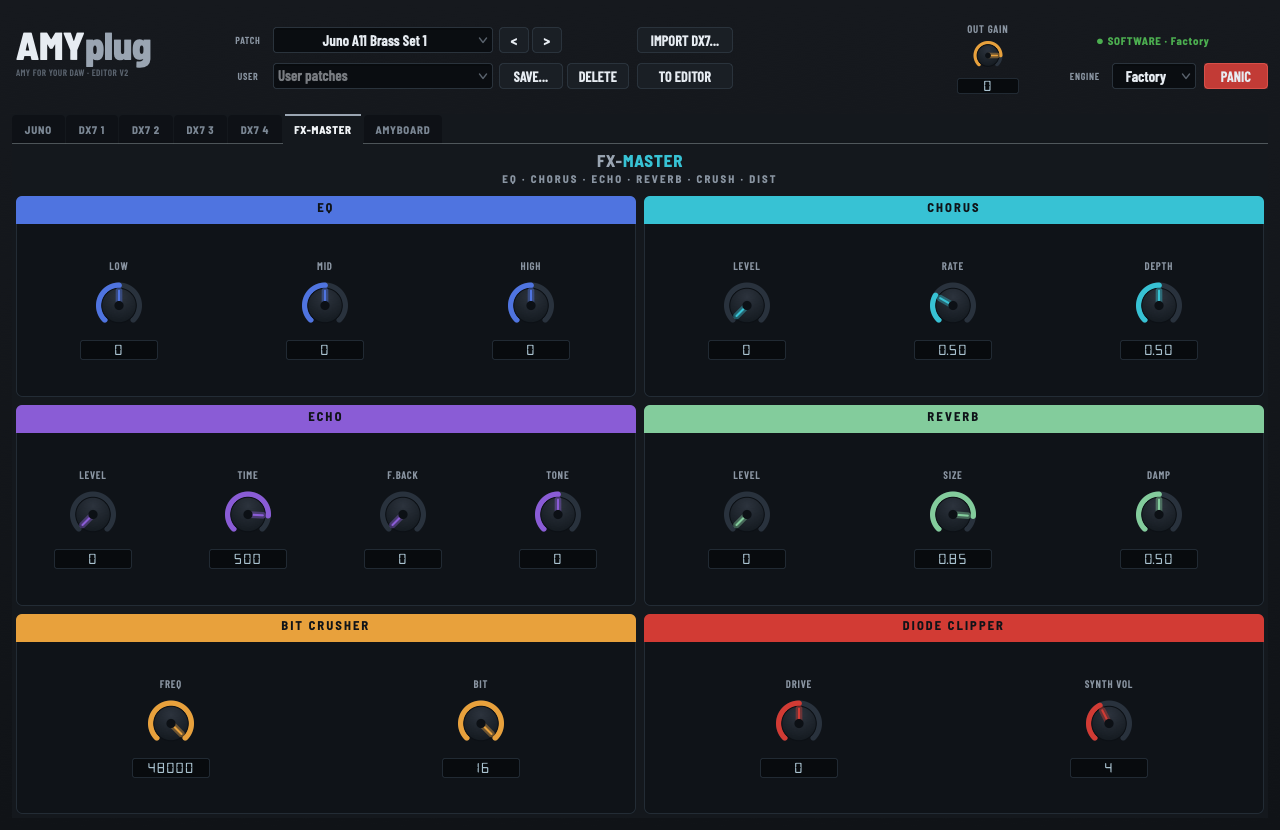
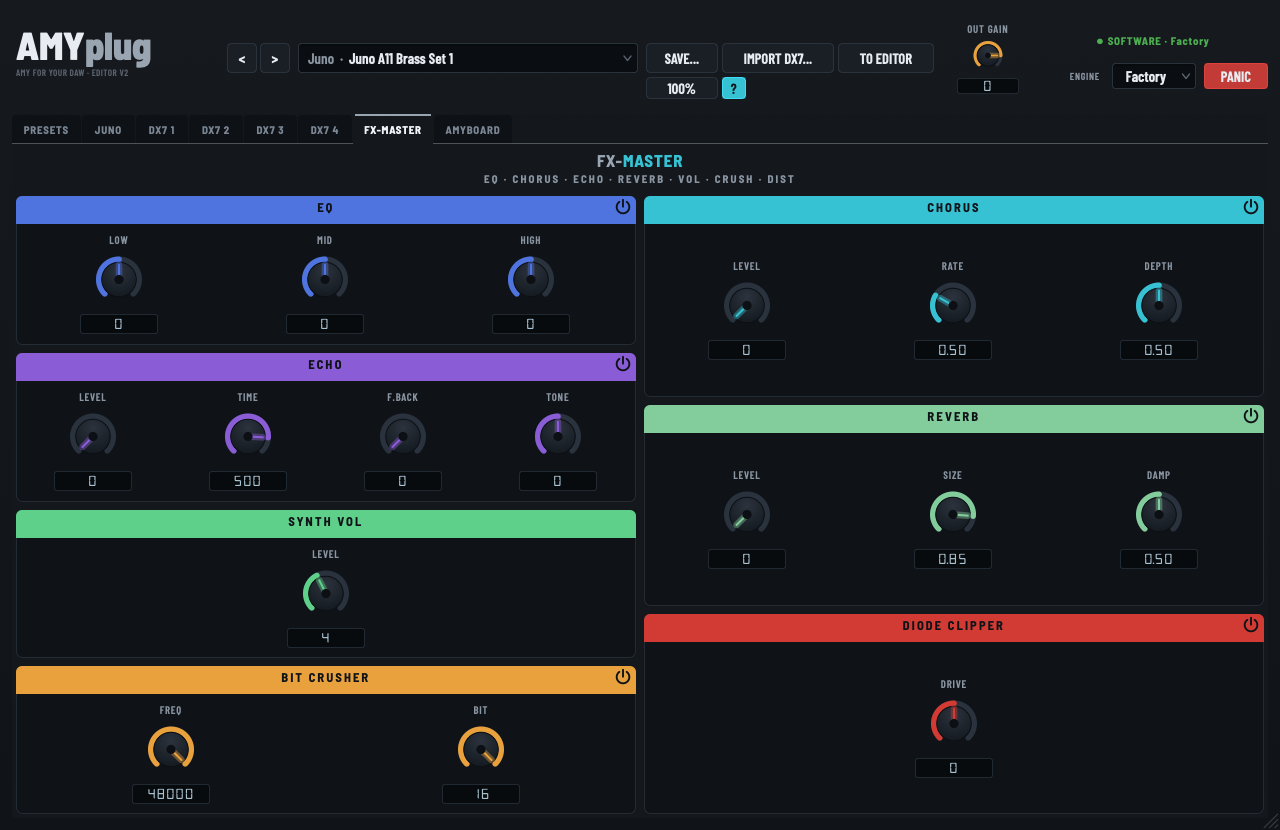
docs: README — the new EQ, Synth Vol's place in the chain, presets and hover help
Reflects what shipped: our series EQ and why it replaced AMY's parallel one (with the
measured numbers), Synth Vol as the drive into the master stage rather than a knob on the
clipper card, OUT GAIN as the one control that can pass 0 dBFS, and what To Editor now
carries across. Adds the PRESETS tab, which was not documented at all, plus the size picker
and the ? toggle. FX-Master screenshot regenerated.

diff --git a/README.md b/README.md
@@ -110,8 +110,12 @@ See [`CLAUDE.md`](CLAUDE.md) for the architecture brief and [`docs/`](docs/) for
 
   > **The real limit is your CPU.** AMY renders every voice in software, and each one costs: the analog engine builds 6 oscillators per voice (more with Unison), and each DX7 voice runs 6 FM operators. So 16 voices with Unison 4 is *many* times the load of the 6-voice default. If you hear crackles or your DAW reports overload, lower **Voices** (or **Unison**) first, or raise your audio buffer size.
 - **Juno LFO** modes (Poly / Free / Key / Tempo-Sync).
-- **AMY’s full FX bus** on the master — EQ, chorus, echo and reverb.
-- **Two extra output effects of our own**, on top of AMY’s bus: a **Bit Crusher** (independent sample-rate + bit-depth reduction) and a **Diode Clipper** — a wave-digital-filter model of an antiparallel diode pair, for analog-style saturation rather than generic distortion. Both are Faust ports, and both are automatable like everything else.
+- **AMY’s FX bus** on the master — chorus, echo and reverb — plus **Synth Vol**, the engine’s own output level, which is what drives the two effects after it.
+- **Three output effects of our own**, after AMY’s bus: a **3-band EQ**, a **Bit Crusher** (independent sample-rate + bit-depth reduction) and a **Diode Clipper** — a wave-digital-filter model of an antiparallel diode pair, for analog-style saturation rather than generic distortion. All automatable like everything else.
+
+  > **Why our own EQ?** AMY’s runs its three bands *in parallel* and sums them, which only reconstructs the signal while all three gains are equal — move one band alone and the cancellation that made it work becomes a notch. Measured against a flat reference on AMY 1.2.16, a **+1 dB** low boost put a **−7.7 dB** hole at 1.5 kHz; +6 dB put it at −15.1 dB. Ours runs a low shelf, a bell and a high shelf **in series**, so the bands are independent and the control is monotonic. Findings and a proposed upstream fix are written up in [`docs/upstream/AMY-eq-issue.md`](docs/upstream/AMY-eq-issue.md); if AMY changes it, one flag hands the job back.
+- **Hover help** — a **?** next to the size read-out turns tooltips on and off (on by default). Every knob, menu and button explains itself.
+- **Resizable editor** — 60–150% from the size button, or drag the bottom-right corner to any size. It is remembered with the project.
 - **A second plugin included — [AMYplugFX](#amyplugfx--the-synths-whole-fx-bus-as-an-effect-plugin)**: the entire output section (filter + EQ + chorus + echo + reverb + bit crusher + diode clipper) as an AU/VST3 **audio effect** you can insert on *any* track. Unlike the instrument, you can run as many of these as you like.
 - **Full host automation** of every sound parameter, with **bit-faithful recall** — the plugin keeps a canonical patch model that saves and restores with your DAW project.
 - **No hanging notes**: deterministic note-off, transport-stop flush, and a Panic button.
@@ -121,13 +125,25 @@ See [`CLAUDE.md`](CLAUDE.md) for the architecture brief and [`docs/`](docs/) for
 
 ## The interface, tab by tab
 
-Everything above the tabs is always visible: the **patch browser** (factory presets + your own user patches, with Import DX7 and “To Editor”), the **OUT GAIN** master, an **engine indicator** showing whether you’re hearing Software or Hardware, the **engine selector**, and **PANIC**.
+Everything above the tabs is always visible: the **preset field** (click it to browse, ‹ › to step through everything factory and user in one list), **Save…**, **Import DX7…** and **To Editor**, the **OUT GAIN** master, an **engine indicator** showing whether you’re hearing Software or Hardware, the **engine selector**, and **PANIC**. Under the Save button sit the **size read-out** — click for 75/100/125/150%, or drag the window’s bottom-right corner to any size — and the **?** that turns hover help on and off.
+
+The preset field shows `Bank · Name`, and adds a **\*** the moment you move anything, so you always know whether you are hearing the preset or your edit of it.
+
+### Presets — browsing, saving, banks
+
+![The Presets tab](docs/screenshots/presets.png)
+
+The full browser. A **tree** on the left (FACTORY banks — Juno, DX7, Piano, AMYboard — then your USER banks), the **list** in the middle, and the loaded preset’s details plus every library action on the right. Click a row to load it; type in **Search** to filter.
+
+Everything a bank can do lives here, so there is no convention to discover: **Save** / **Save As…** (into a bank you pick or type), **Rename…**, **Move to Bank…**, **Delete**, **New Bank…**, **Import DX7…** and **Reveal Folder**. Banks are simply folders on disk, so you can also organise them in the Finder. Deletes go to the **Trash**, never straight to `rm` — these are your files.
 
 ### Playing a preset vs. editing it — the “To Editor” button
 
 AMY’s built-in presets are stored as the engine’s own patch data, not as knob positions. Selecting one in the browser **plays** it immediately, but the Juno/DX7 tabs are a separate editable voice — so they keep showing whatever *they* hold, not the preset that’s sounding. The **engine indicator** tells you which you’re hearing: `SOFTWARE · Factory` means a browser preset, `· Analog` or `· FM` means the editable voice.
 
-**“To Editor” bridges the two.** It decodes the selected factory preset into the editable engine, fills in every knob, and jumps you to the matching tab — Juno presets (0–127) to **Juno**, DX7 presets (128–255) to the **DX7** tabs. From there it’s yours to change and **Save…** as a user patch. Your effects and output settings are kept; only the synth voice is replaced.
+**“To Editor” bridges the two.** It decodes the selected factory preset into the editable engine, fills in every knob, and jumps you to the matching tab — Juno presets (0–127) to **Juno**, DX7 presets (128–255) to the **DX7** tabs. From there it’s yours to change and **Save…** as a user patch.
+
+It also brings across the **chorus and EQ the preset carries in its own data** — most Juno patches are voiced around full chorus and an EQ tilt, and that *is* the sound — along with the patch’s own output level. Echo and reverb are left as you had them: those read as the room you put a patch in, not as part of it.
 
 > Piano and the AMYboard default (256–257) have no editable structure, so the button is greyed out for them — they play, but there’s nothing to decode.
 >
@@ -167,7 +183,13 @@ Each operator has the DX7's 4-stage rate/level envelope (**R1–R4**, **L1–L4*
 
 ![FX-Master tab](docs/screenshots/fx-master.png)
 
-Shared by both engines: **EQ** (low/mid/high), **Chorus** (level/rate/depth), **Echo** (level/time/feedback/tone) and **Reverb** (level/size/damping) — these are AMY’s own bus effects. Then the two host-side effects: **Bit Crusher** (sample rate + bit depth) and the **Diode Clipper**, a wave-digital-filter diode saturator whose **Drive** you push against **Synth Vol**, the level feeding it.
+Shared by both engines, and laid out in signal order:
+
+**Chorus** (level/rate/depth), **Echo** (level/time/feedback/tone) and **Reverb** (level/size/damping) are AMY’s own bus effects, inside the engine. **Synth Vol** is the last level *inside* AMY — so it is the **drive into everything after it**: push it and the Diode Clipper works harder. Then the host-side stage: the **EQ** (low shelf / bell / high shelf), the **Bit Crusher** (sample rate + bit depth) and the **Diode Clipper**, a wave-digital-filter diode saturator.
+
+**OUT GAIN**, up in the header, is different: it sits at the very end, *after* the clipper, so it drives nothing — it just sets how loud the plugin leaves. It is also the only control that can push past 0 dBFS, since the diode is otherwise the ceiling.
+
+Every effect card has a **power switch**. Off is silent, not removed — the knobs keep their settings, and the switch is part of the patch, so a sound saved with its reverb off recalls that way. Synth Vol has no switch: it is a level, not an effect.
 
 ### AMYboard — hardware control
 
